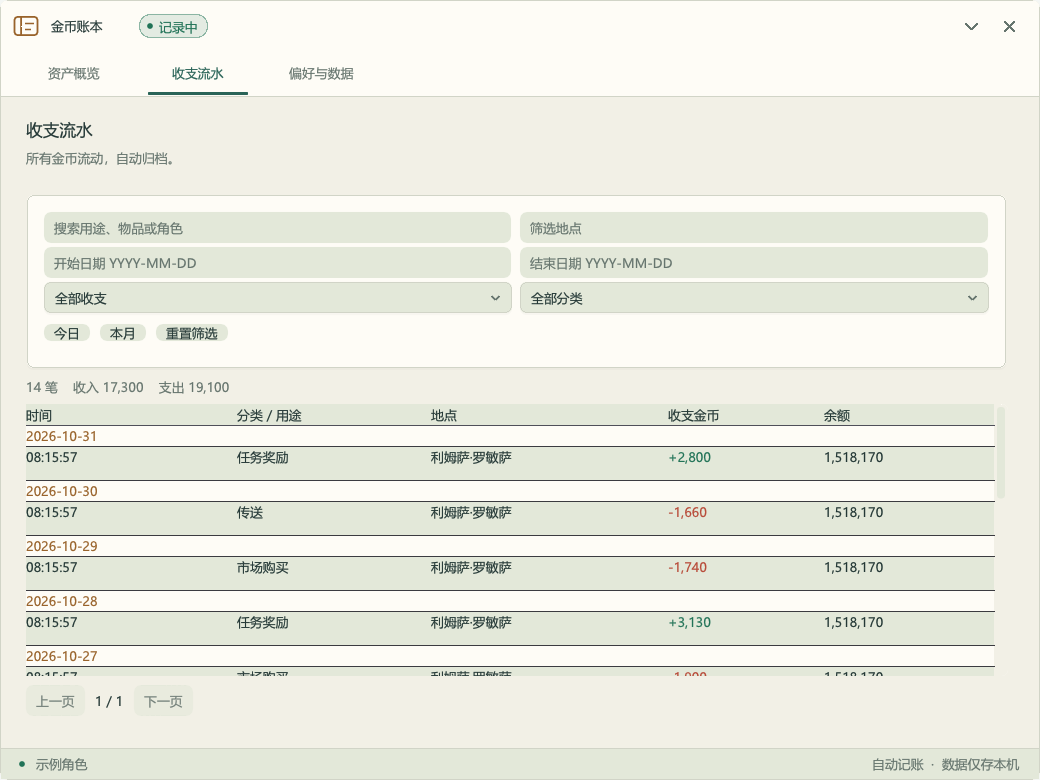
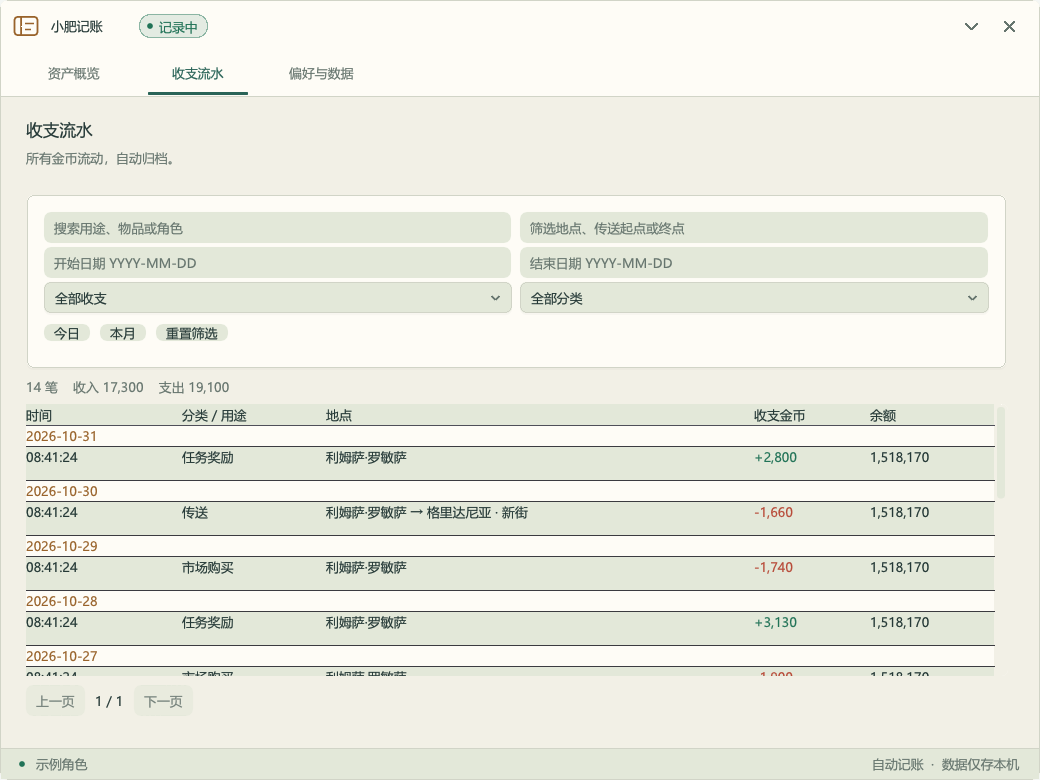
Rename plugin display name to 小肥记账 and refresh screenshots

diff --git a/tools/JiZhang.Preview/Program.cs b/tools/JiZhang.Preview/Program.cs
@@ -30,7 +30,7 @@ unsafe {
             if((name=="year"||name=="all")&&frame is 3 or 4) {var r=view.HitRegions["range-"+(name=="year"?1:2)];io.AddMousePosEvent((r.X+r.Z)/2,(r.Y+r.W)/2);io.AddMouseButtonEvent(0,frame==3);}
             ImGui.NewFrame();LedgerTheme.Push();
             ImGui.SetNextWindowPos(Vector2.Zero,ImGuiCond.Always);ImGui.SetNextWindowSize(new(width,height),ImGuiCond.Always);
-            if(ImGui.Begin("金币账本###JiZhang",ref open,ImGuiWindowFlags.NoTitleBar|ImGuiWindowFlags.NoCollapse|ImGuiWindowFlags.NoScrollbar|ImGuiWindowFlags.NoScrollWithMouse))view.Draw();
+            if(ImGui.Begin("小肥记账###JiZhang",ref open,ImGuiWindowFlags.NoTitleBar|ImGuiWindowFlags.NoCollapse|ImGuiWindowFlags.NoScrollbar|ImGuiWindowFlags.NoScrollWithMouse))view.Draw();
             ImGui.End();LedgerTheme.Pop();ImGui.Render();
         }
         if(name=="scrolled") {
@@ -81,7 +81,7 @@ unsafe {
             ImGui.SetNextWindowPos(Vector2.Zero,ImGuiCond.Always);
             if(frame==0)ImGui.SetNextWindowSize(new(936,768),ImGuiCond.Always);
             var open=true;
-            ImGui.Begin("金币账本###JiZhang",ref open,ImGuiWindowFlags.NoTitleBar|ImGuiWindowFlags.NoCollapse|ImGuiWindowFlags.NoScrollbar|ImGuiWindowFlags.NoScrollWithMouse);
+            ImGui.Begin("小肥记账###JiZhang",ref open,ImGuiWindowFlags.NoTitleBar|ImGuiWindowFlags.NoCollapse|ImGuiWindowFlags.NoScrollbar|ImGuiWindowFlags.NoScrollWithMouse);
             view.Draw();var size=ImGui.GetWindowSize();
             rows.Add(new{frame,time=model.UiTime,tab=view.ActiveTab,nav=view.NavPosition,range=view.ActiveRange,rangePosition=view.RangePosition,reveal=view.PageProgress,fold=view.FoldAmount,height=size.Y,reduced=model.ReducedMotion,closed=view.CloseRequested,direction=view.DirectionForPreview,transfers=model.Config.ExcludeTransfers});
             ImGui.End();LedgerTheme.Pop();ImGui.Render();

diff --git a/src/JiZhang/Plugin.cs b/src/JiZhang/Plugin.cs
@@ -58,7 +58,7 @@ public sealed partial class Plugin : IDalamudPlugin, ILedgerUiContext
         fonts = new(Interface.UiBuilder, Config);
         window = new(this);
         windows.AddWindow(window);
-        Commands.AddHandler("/jizhang", new CommandInfo((_, _) => window.IsOpen = !window.IsOpen) { HelpMessage = "打开金币账本" });
+        Commands.AddHandler("/jizhang", new CommandInfo((_, _) => window.IsOpen = !window.IsOpen) { HelpMessage = "打开小肥记账" });
         Interface.UiBuilder.Draw += Draw;
         Interface.UiBuilder.OpenMainUi += Open;
         Interface.UiBuilder.OpenConfigUi += Open;
@@ -130,7 +130,7 @@ public sealed partial class Plugin : IDalamudPlugin, ILedgerUiContext
         } catch (Exception e) {
             if (restoring) { restoring = false; restoreTask = null; restoreStates = null; Status = "恢复失败，原账本保留：" + e.Message; }
             else { fatalError = e.Message; Status = "记录已暂停，请重新加载插件：" + e.Message; }
-            Log.Error(e, "金币账本记录失败");
+            Log.Error(e, "小肥记账记录失败");
         }
     }
     private Location ReadLocation() {

diff --git a/src/JiZhang/LedgerView.cs b/src/JiZhang/LedgerView.cs
@@ -109,7 +109,7 @@ internal sealed partial class LedgerView(ILedgerUiContext plugin)
         if(ImGui.IsItemHovered()&&ImGui.IsMouseDoubleClicked(ImGuiMouseButton.Left))ToggleFold();
         if(ImGui.IsItemActive()&&ImGui.IsMouseDragging(ImGuiMouseButton.Left))ImGui.SetWindowPos(origin+ImGui.GetIO().MouseDelta);
         BookIcon(origin+new Vector2(26,26)*Unit,12*Unit,Gold);
-        draw.AddText(origin+new Vector2(51,17)*Unit,Color(Ink),"金币账本");
+        draw.AddText(origin+new Vector2(51,17)*Unit,Color(Ink),"小肥记账");
         var status=plugin.Current==null?"等待登录":plugin.Status.StartsWith("正在自动记录",StringComparison.Ordinal)?"记录中":"请检查记录状态";
         var statusColor=status=="记录中"?Green:Muted;
         var pill=origin+new Vector2(139,14)*Unit;var pillSize=new Vector2(ImGui.CalcTextSize(status).X+30*Unit,24*Unit);

diff --git a/src/JiZhang/LedgerWindow.cs b/src/JiZhang/LedgerWindow.cs
@@ -5,7 +5,7 @@ namespace JiZhang;
 internal sealed class LedgerWindow : Window
 {
     private readonly LedgerView view;
-    public LedgerWindow(Plugin plugin) : base("金币账本###JiZhang",ImGuiWindowFlags.NoTitleBar|ImGuiWindowFlags.NoCollapse|ImGuiWindowFlags.NoScrollbar|ImGuiWindowFlags.NoScrollWithMouse) {
+    public LedgerWindow(Plugin plugin) : base("小肥记账###JiZhang",ImGuiWindowFlags.NoTitleBar|ImGuiWindowFlags.NoCollapse|ImGuiWindowFlags.NoScrollbar|ImGuiWindowFlags.NoScrollWithMouse) {
         view=new(plugin);
         Size=new Vector2(1040,780);
         SizeCondition=ImGuiCond.FirstUseEver;

diff --git a/docs/UI_SOURCE_AUDIT.md b/docs/UI_SOURCE_AUDIT.md
@@ -70,7 +70,7 @@ Motion.Approach、Reveal 和 AppWindow 折叠会检查 UiBuilder.ShouldUseReduce
 
 动画状态字典是静态且从当前文件看无统一清理；动态ID可能增长，不能把它当无限列表模板。窗口析构、字形重建、皮肤栈与字体栈释放需按实际生命周期管理。Alpha 通过 ImGui 样式控制时，自绘颜色须使用 GetColorU32 或显式乘样式alpha；直接 ColorConvertFloat4ToU32 会绕过淡入，不能以为压 Alpha 就全部生效。
 
-## 7. 当前金币账本差距与实施顺序
+## 7. 当前小肥记账差距与实施顺序
 
 | 能力 | 参考插件 | 账本当前状态 |
 |---|---|---|
@@ -104,4 +104,4 @@ Motion.Approach、Reveal 和 AppWindow 折叠会检查 UiBuilder.ShouldUseReduce
 
 ## 独立视觉修订（2026-10-31）
 
-用户撤回视觉复现方向，要求仅参考规范和动效。金币账本现改为 Paper & Pine 暖纸白、墨绿、铜金与顶部文字导航，移除紫色光晕、玻璃渐变和图标侧栏。前文标志性尺寸描述用于来源分析，不再作为本项目外观验收标准。可编辑矢量设计板及实际渲染对照见 [design/README.md](design/README.md)。保留托管字体、交互状态、Reduced motion、指数趋近、260ms 切页与280ms 反向折叠。周期选项现为当月/当年/所有，组成图改为矩形树图。
+用户撤回视觉复现方向，要求仅参考规范和动效。小肥记账现改为 Paper & Pine 暖纸白、墨绿、铜金与顶部文字导航，移除紫色光晕、玻璃渐变和图标侧栏。前文标志性尺寸描述用于来源分析，不再作为本项目外观验收标准。可编辑矢量设计板及实际渲染对照见 [design/README.md](design/README.md)。保留托管字体、交互状态、Reduced motion、指数趋近、260ms 切页与280ms 反向折叠。周期选项现为当月/当年/所有，组成图改为矩形树图。

diff --git a/docs/DEVELOPMENT.md b/docs/DEVELOPMENT.md
@@ -44,6 +44,6 @@ dotnet run --project tools/JiZhang.Preview -- artifacts/ui-motion --motion
 
 ### AutoDuty 对照与本机排查
 
-AutoDuty 的 `AutoDuty/AutoDuty.json` 使用标准 `ImageUrls` 数组指向图片服务，并未通过插件代码向安装器注入截图。金币账本采用同一清单机制，另为开发插件提供 `images/image1.png` 至 `image3.png`。
+AutoDuty 的 `AutoDuty/AutoDuty.json` 使用标准 `ImageUrls` 数组指向图片服务，并未通过插件代码向安装器注入截图。小肥记账采用同一清单机制，另为开发插件提供 `images/image1.png` 至 `image3.png`。
 
-本机当前启用的开发插件路径为 `artifacts/JiZhang/JiZhang.dll`；排查时必须检查该路径旁的清单和图片，不能只检查 `bin/Release`。本轮已核实当前目录中的三张图片符合尺寸限制、与清单远程 URL 的内容一致且远程可访问。日志中08:18的旧图错误分别为1040×1000、1040×780、1040×960；之后重载插件没有触发图片重新加载。故不能把文件修复后直接视作安装器画面已验证，需重启后在安装器展开金币账本条目检查。
+本机当前启用的开发插件路径为 `artifacts/JiZhang/JiZhang.dll`；排查时必须检查该路径旁的清单和图片，不能只检查 `bin/Release`。本轮已核实当前目录中的三张图片符合尺寸限制、与清单远程 URL 的内容一致且远程可访问。日志中08:18的旧图错误分别为1040×1000、1040×780、1040×960；之后重载插件没有触发图片重新加载。故不能把文件修复后直接视作安装器画面已验证，需重启后在安装器展开小肥记账条目检查。

diff --git a/docs/design/README.md b/docs/design/README.md
@@ -1,4 +1,4 @@
-# 金币账本 · Paper & Pine
+# 小肥记账 · Paper & Pine
 
 本轮建立插件自己的暖纸白、墨绿、铜金视觉身份。仅借鉴 AutoFATEGrind 的托管字体、稳定命中区、可中断动效和减少动态效果处理；不再复用其紫色光晕、玻璃渐变卡片、窄图标侧栏组合。
 

diff --git a/README.md b/README.md
@@ -1,4 +1,4 @@
-# 金币账本 · JiZhang
+# 小肥记账 · JiZhang
 
 基于 Dalamud 的 FF14 自动金币账本。无需手动记账，自动记录当前角色的金币收入与支出，查看每笔交易的时间、地点、用途及余额变化，传送流水同时显示起点与终点。
 
